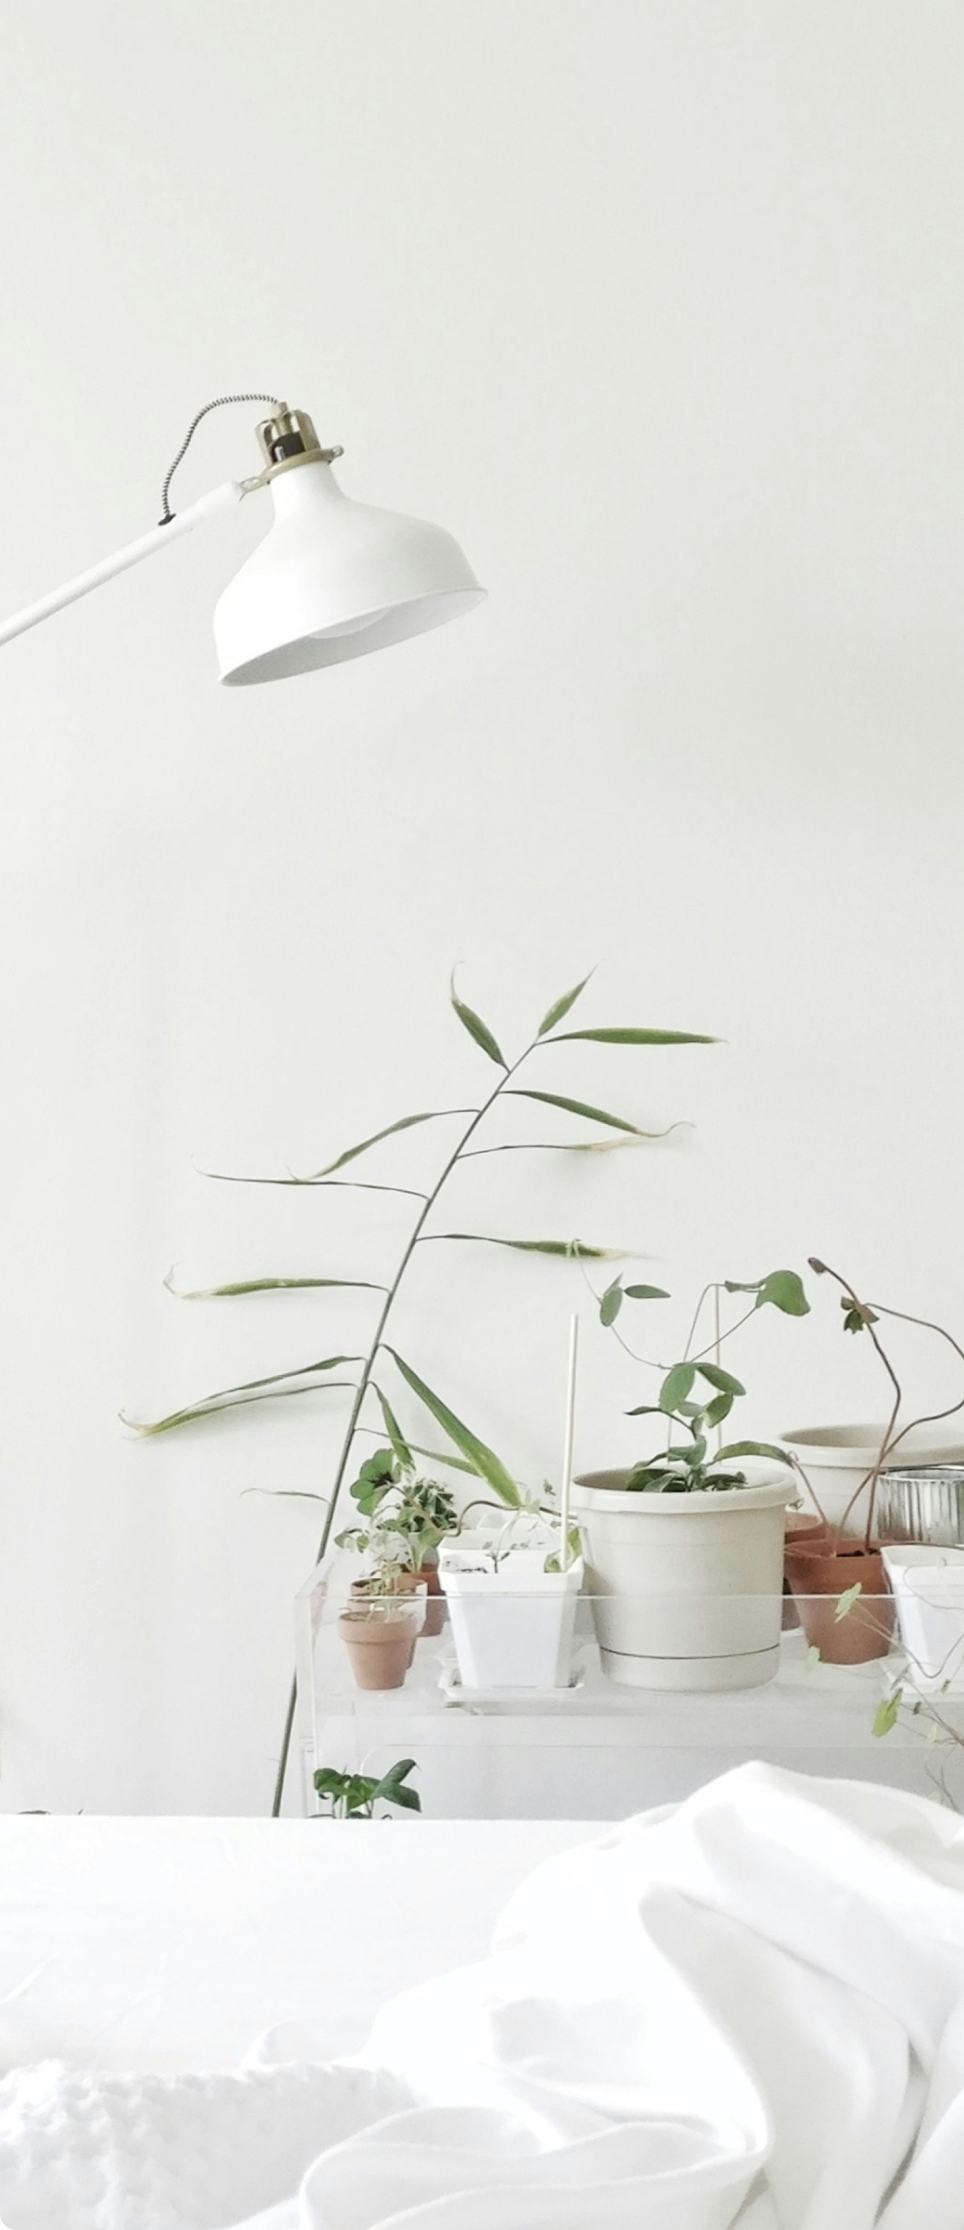
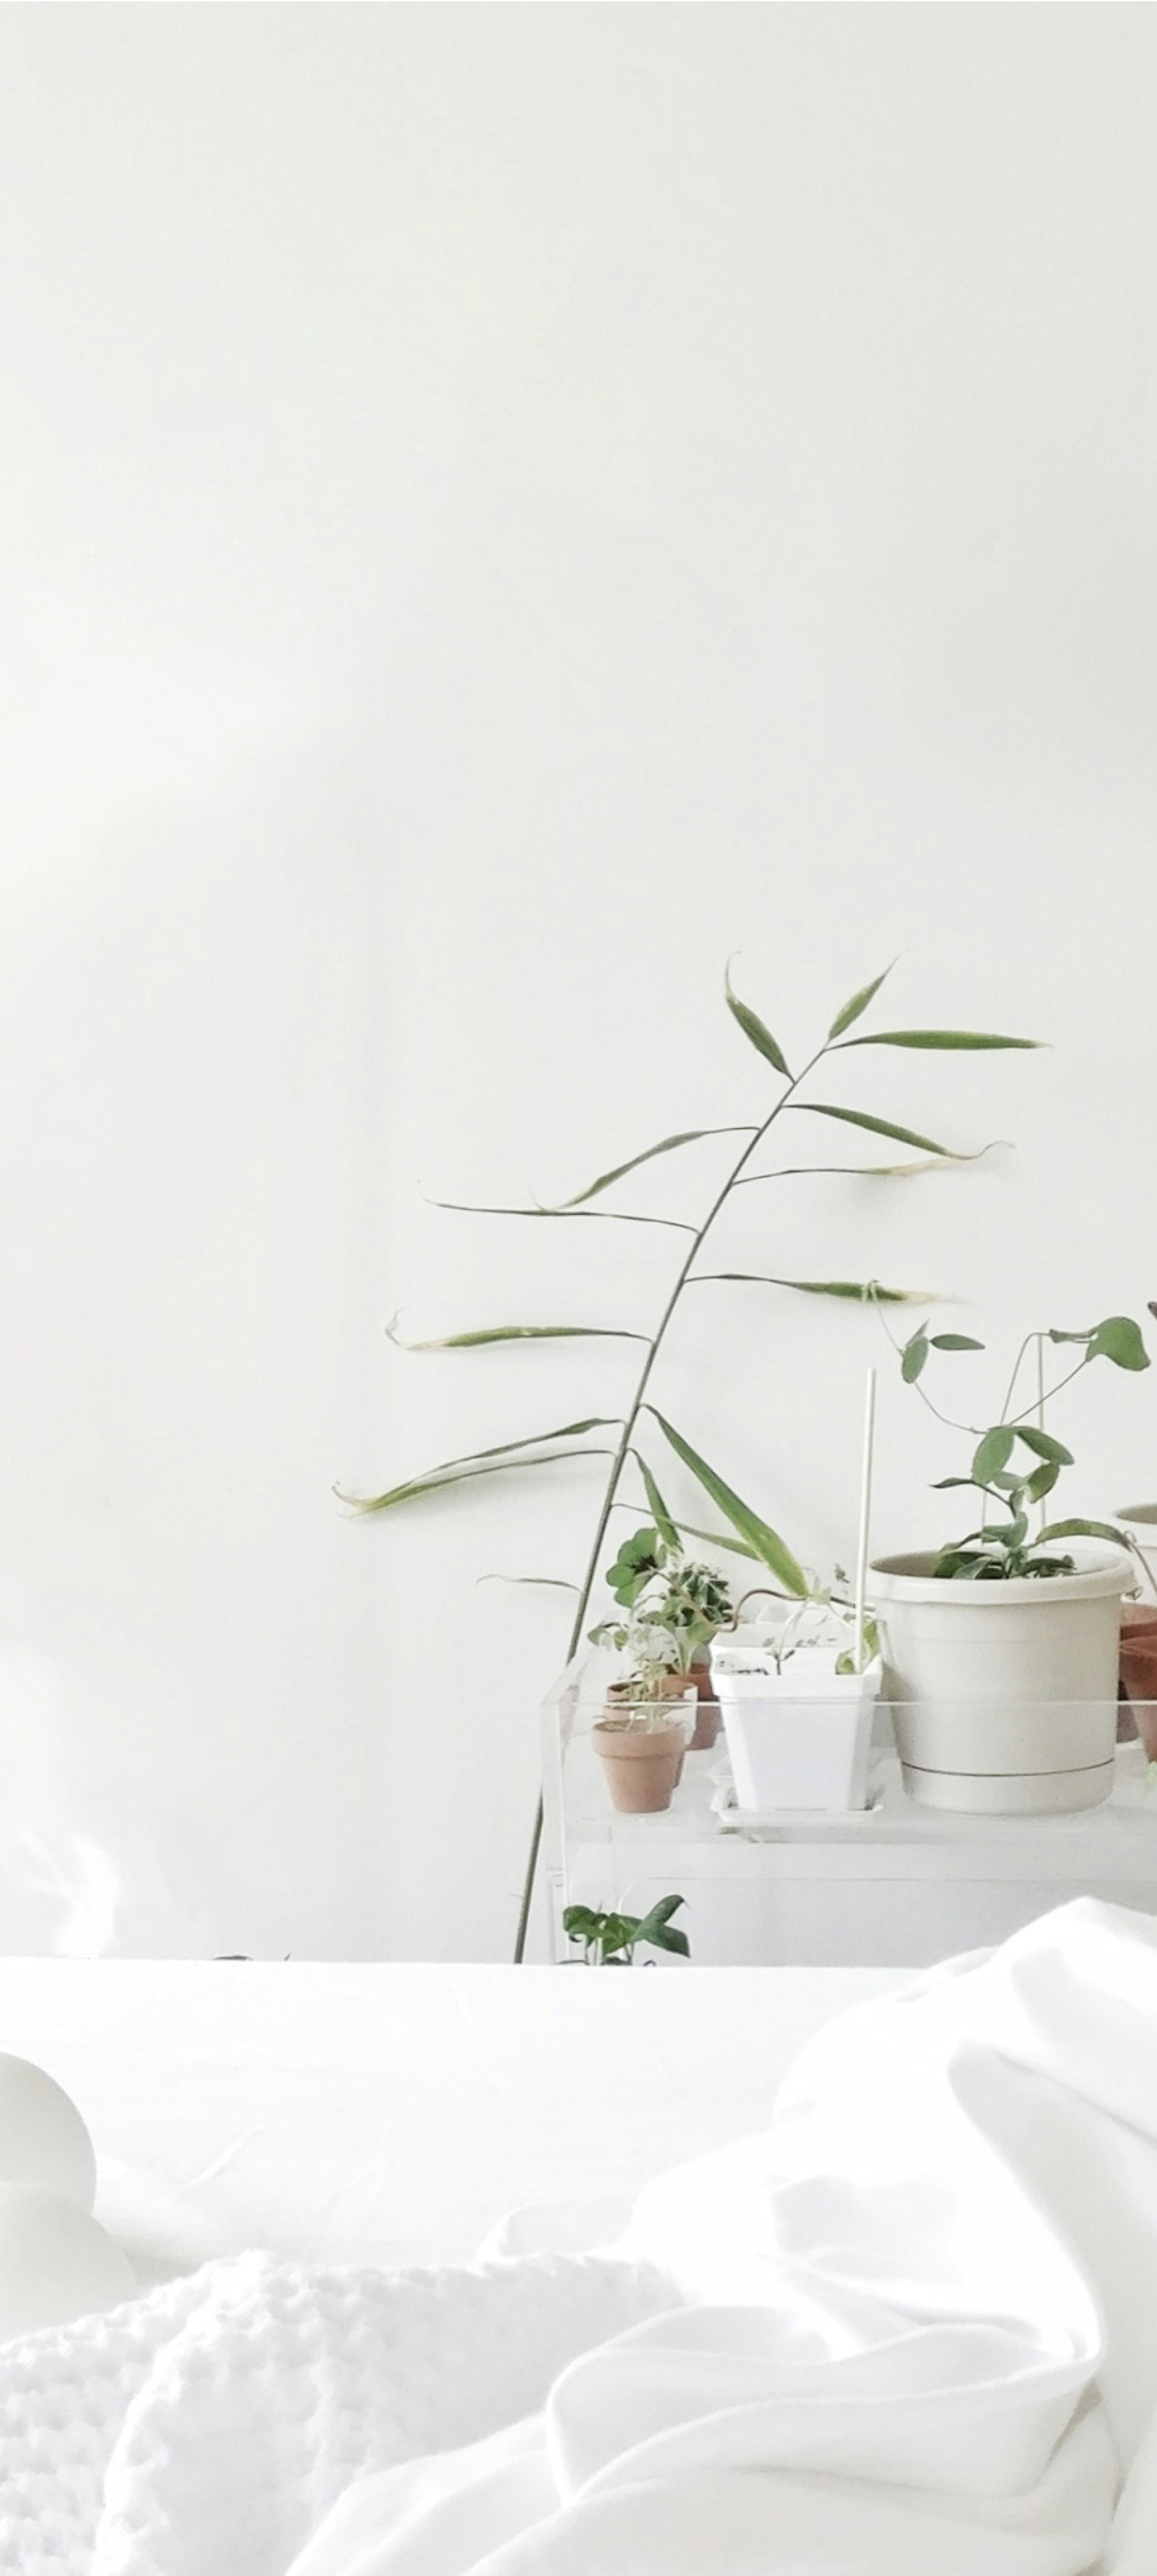
Commit

diff --git a/src/components/BurgerMenu/BurgerMenu.jsx b/src/components/BurgerMenu/BurgerMenu.jsx
@@ -71,10 +71,10 @@ const BurgerMenu = ({ isOpen, setIsOpen, setIsLoginOpen, setIsAuthorizationOpen 
               {t('book')}
             </NavLink>
           </li>
-          <li className={!isAuth ? 'burger-menu__link burger-menu__link-auth' : ''} onClick={() => handleAuthModalOpen(false)}>
+          <li className={!isAuth ? 'burger-menu__link burger-menu__link-auth' : 'hidden'} onClick={() => handleAuthModalOpen(false)}>
             {t('signUp')}
           </li>
-          <li className={!isAuth ? 'burger-menu__link burger-menu__link-auth' : ''} onClick={() => handleAuthModalOpen(true)}>
+          <li className={!isAuth ? 'burger-menu__link burger-menu__link-auth' : 'hidden'} onClick={() => handleAuthModalOpen(true)}>
             {t('logIn')}
           </li>
           <li className={isAuth ? '' : 'hidden'}>
@@ -93,22 +93,26 @@ const BurgerMenu = ({ isOpen, setIsOpen, setIsLoginOpen, setIsAuthorizationOpen 
             </div>
             <ul className={`burger-menu__sublist ${isProfileExpanded ? 'expanded' : ''}`}>
               <li>
-                <NavLink className="burger-menu__sublink" to="/personal-info" onClick={closeBurgerMenu}>
+                {/* <NavLink className="burger-menu__sublink" to="/personal-info" onClick={closeBurgerMenu}> */}
+                <NavLink className="burger-menu__sublink" to="/p" onClick={closeBurgerMenu}>
                   {t('personalInfo')}
                 </NavLink>
               </li>
               <li>
-                <NavLink className="burger-menu__sublink" to="/addresses" onClick={closeBurgerMenu}>
+                {/* <NavLink className="burger-menu__sublink" to="/addresses" onClick={closeBurgerMenu}> */}
+                <NavLink className="burger-menu__sublink" to="/a" onClick={closeBurgerMenu}>
                   {t('addresses')}
                 </NavLink>
               </li>
               <li>
-                <NavLink className="burger-menu__sublink" to="/orders" onClick={closeBurgerMenu}>
+                {/* <NavLink className="burger-menu__sublink" to="/orders" onClick={closeBurgerMenu}> */}
+                <NavLink className="burger-menu__sublink" to="/o" onClick={closeBurgerMenu}>
                   {t('orders')}
                 </NavLink>
               </li>
               <li>
-                <NavLink className="burger-menu__sublink" to="/settings" onClick={closeBurgerMenu}>
+                {/* <NavLink className="burger-menu__sublink" to="/settings" onClick={closeBurgerMenu}> */}
+                <NavLink className="burger-menu__sublink" to="/s" onClick={closeBurgerMenu}>
                   {t('settings')}
                 </NavLink>
               </li>

diff --git a/src/components/Main/Main.scss b/src/components/Main/Main.scss
@@ -53,7 +53,7 @@
     @media screen and (max-width: 744px) {
       font-size: 160px;
       letter-spacing: 4.8px;
-      margin: 26px 0 20px;
+      margin: 56px 0 20px;
     }
 
     @media screen and (max-width: 350px) {
@@ -123,14 +123,14 @@
   }
 
   &__img {
-    height: 878px;
+    height: 900px;
     position: absolute;
     top: 0;
-    left: 723px;
+    left: 794px;
 
     @media screen and (max-width: 1440px) {
-      height: 714px;
-      left: 487px;
+      height: 688px;
+      left: 558px;
     }
 
     @media screen and (max-width: 1024px) {
@@ -143,15 +143,15 @@
 
       @media screen and (max-width: 1024px) {
         display: block;
-        height: 821px;
-        left: 389px;
-        top: 125px;
+        height: 948px;
+        left: 318px;
+        top: 65px;
       }
 
       @media screen and (max-width: 744px) {
-        height: 676px;
-        top: 150px;
-        left: calc(100vw - 294px);
+        height: 670px;
+        top: 162px;
+        left: calc(100vw - 301px);
       }
     }
   }

diff --git a/src/components/Authorization/Authorization.jsx b/src/components/Authorization/Authorization.jsx
@@ -174,7 +174,7 @@ const Authorization = ({ isOpen, setIsOpen, isLogin, setIsLogin }) => {
         <div className={`auth ${isLogin ? 'login' : 'reg'}`} ref={modalRef}>
           <svg className="auth__close" onClick={closeModal} xmlns="http://www.w3.org/2000/svg" width="30" height="30" viewBox="0 0 30 30" fill="none">
             <path d="M22.0712 22.0709L7.9291 7.92881" stroke="#268664" strokeLinecap="round"/>
-            <path d="M22.0709 7.92881L7.92876 22.0709" stroke="#268664" stroke-Linecap="round"/>
+            <path d="M22.0709 7.92881L7.92876 22.0709" stroke="#268664" strokeLinecap="round"/>
           </svg>
           <h2 className="auth__title">{isLogin ? t('logIn') : t('signUp')}</h2>
           <form className={`form auth-form ${isFormValid ? 'valid' : 'invalid'}`} onSubmit={handleFormSubmit}>

diff --git a/src/store/reducers/userReducer.js b/src/store/reducers/userReducer.js
@@ -1,7 +1,7 @@
 import { SET_IS_AUTH, SET_IP_COUNTRY } from '../../constants/actionsRedux';
 
 const defaultState = {
-  isAuth: false,
+  isAuth: true,
   ipCountry: '',
 };
 
